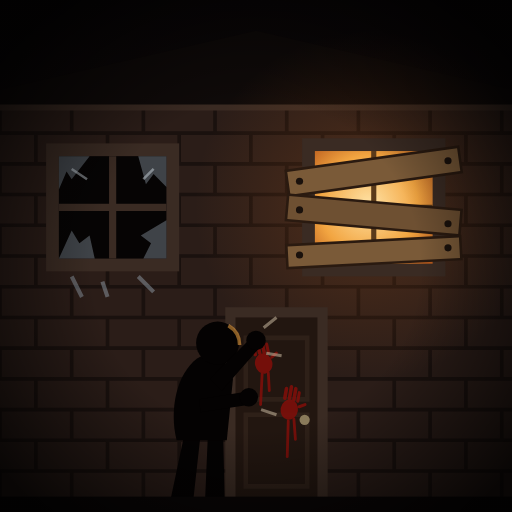
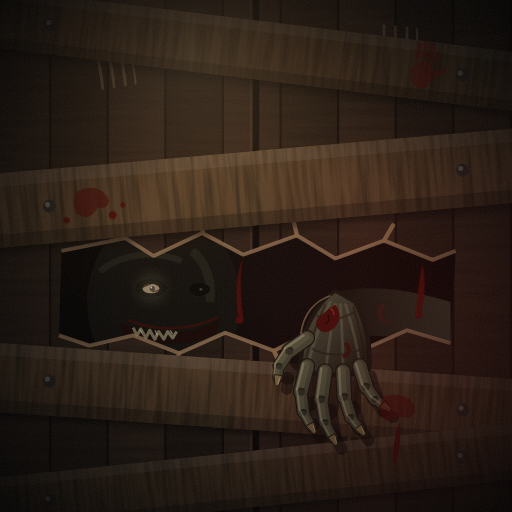
Kvartal: horror-film emblem - a hand forcing through boarded doors
Close-up of weathered boarded doors with wood grain, rusty nails, claw
marks and blood; through a splintered gap a face in shadow (one clouded
eye, bared teeth) and a rotting, tendoned hand clawing over a board.
Warm lamp light, red side light, vignette and film grain. Larger in the
intro and the menu; icons re-rendered.

Claude-Session: https://claude.ai/code/session_01CJeFQTEg4JxW5kAec31Xqp

diff --git a/mobile-games/kvartal/index.html b/mobile-games/kvartal/index.html
@@ -7400,7 +7400,7 @@ function titleCss() {
   color: #e9e1d4; text-shadow: 0 0 1px #000, 2px 2px 0 rgba(120,14,10,.7), 0 8px 40px rgba(0,0,0,.9); animation: tflick 7s infinite; }
 @keyframes tflick { 0%, 91%, 93.5%, 96%, 100% { opacity: 1 } 92% { opacity: .55 } 95% { opacity: .78 } }
 .tbrand { display: flex; align-items: center; gap: clamp(10px, 2vw, 18px); }
-.temb svg { width: clamp(54px, 9vw, 96px); height: auto; display: block; filter: drop-shadow(0 0 18px rgba(242,165,65,.15)); }
+.temb svg { width: clamp(72px, 12vw, 140px); height: auto; display: block; filter: drop-shadow(0 0 18px rgba(242,165,65,.15)); }
 .tline { font: italic 400 14px Georgia, serif; color: #a39a8c; margin-bottom: 8px; }
 .tmenu { display: flex; flex-direction: column; gap: 2px; border-left: 2px solid rgba(208,69,58,.35); }
 .tm { position: relative; display: flex; align-items: baseline; gap: 12px; padding: 8px 14px; background: none; border-radius: 0 10px 10px 0; text-align: left;
@@ -7436,7 +7436,7 @@ function titleCss() {
   .tbox .talert { grid-column: 1; grid-row: 1; align-self: end; }
   .tbox .tbrand { grid-column: 1; grid-row: 2; }
   .tbox .ttitle { font-size: clamp(22px, min(4.5vw, 12vh), 52px); }
-  .temb svg { width: clamp(42px, 15vh, 80px); }
+  .temb svg { width: clamp(64px, 27vh, 124px); }
   .tbrand { min-width: 0; }
   .tbox .tline { grid-column: 1; grid-row: 3; align-self: start; margin: 0; font-size: 13px; }
   .tmenu { grid-column: 2; grid-row: 1 / 4; align-self: center; }
@@ -8137,56 +8137,106 @@ const recheckSize = () => { if (window.innerWidth !== lastIW || window.innerHeig
 window.addEventListener("orientationchange", () => { setTimeout(recheckSize, 120); setTimeout(recheckSize, 500); });
 setInterval(recheckSize, 250);
 game.classList.toggle("lefty", !!settings.lefty);
-// ---------- the emblem: a house at night - a boarded window still lit, a smashed one, and one of them at the door
+// ---------- the emblem: boarded doors, and one of them forcing its way through the gap
 function emblemSVG(id = "em", full = false) {
-  const bricks = [];
-  for (let r = 0; r < 14; r++) { const y = 20 + r * 6; bricks.push(`M0 ${y}h100`); for (let x = (r % 2) * 7; x < 100; x += 14) bricks.push(`M${x} ${y}v6`); }
-  return `<svg viewBox="0 0 100 100" xmlns="http://www.w3.org/2000/svg" aria-hidden="true">
+  const I = s => id + s;
+  // vertical door planks
+  const planks = [];
+  for (let k = 0; k < 9; k++) {
+    const x = k * 45 - 5, c = ["#2a1d15", "#241a12", "#2e2017", "#211710", "#2b1e16", "#261b13", "#302118", "#231912", "#2c1f16"][k];
+    planks.push(`<rect x="${x}" y="-5" width="44" height="410" fill="${c}"/><rect x="${x}" y="-5" width="44" height="410" fill="#000" opacity=".22" filter="url(#${I("grain")})"/><path d="M${x + 44.5} -5V405" stroke="#0e0806" stroke-width="2.4"/>`);
+  }
+  // a nailed board across the doors
+  const board = (y, h, rot, tone) => `<g transform="rotate(${rot} 200 ${y + h / 2})">
+    <rect x="-20" y="${y + 4}" width="440" height="${h}" fill="#000" opacity=".55" filter="url(#${I("soft")})"/>
+    <rect x="-20" y="${y}" width="440" height="${h}" fill="${tone}"/>
+    <rect x="-20" y="${y}" width="440" height="${h}" fill="#2a1a0e" opacity=".5" filter="url(#${I("grainH")})"/>
+    <rect x="-20" y="${y}" width="440" height="${h * .18}" fill="#fff" opacity=".07"/><rect x="-20" y="${y + h * .82}" width="440" height="${h * .18}" fill="#000" opacity=".28"/>
+    ${[38, 362].map(nx => `<g><path d="M${nx + 2} ${y + h / 2 + 3}v${h * .6}" stroke="#6a2a10" stroke-width="3" opacity=".45" filter="url(#${I("soft")})"/><circle cx="${nx}" cy="${y + h / 2}" r="5" fill="#2a2522"/><circle cx="${nx - 1.4}" cy="${y + h / 2 - 1.4}" r="2" fill="#8a847c" opacity=".7"/></g>`).join("")}
+  </g>`;
+  // claw marks scraped into the wood
+  const claws = (x, y, r) => `<g transform="translate(${x} ${y}) rotate(${r})" stroke="#b89a78" stroke-linecap="round" opacity=".38">${[0, 9, 18, 26].map(o => `<path d="M${o} 0c2 18 4 34 3 52" stroke-width="${o === 26 ? 1.6 : 2.2}" fill="none"/>`).join("")}</g>`;
+  return `<svg viewBox="0 0 400 400" xmlns="http://www.w3.org/2000/svg" aria-hidden="true">
 <defs>
-<linearGradient id="${id}s" x1="0" y1="0" x2="0" y2="1"><stop offset="0" stop-color="#0a0607"/><stop offset="1" stop-color="#1c1210"/></linearGradient>
-<radialGradient id="${id}l" cx="72" cy="40" r="34" gradientUnits="userSpaceOnUse"><stop offset="0" stop-color="#f2a541" stop-opacity=".42"/><stop offset=".4" stop-color="#d06a24" stop-opacity=".14"/><stop offset="1" stop-color="#d06a24" stop-opacity="0"/></radialGradient>
-<radialGradient id="${id}w" cx="72" cy="40" r="16" gradientUnits="userSpaceOnUse"><stop offset="0" stop-color="#ffe3a6"/><stop offset=".6" stop-color="#f2a541"/><stop offset="1" stop-color="#b85a1c"/></radialGradient>
-<radialGradient id="${id}v" cx="50" cy="52" r="64" gradientUnits="userSpaceOnUse"><stop offset=".5" stop-color="#000" stop-opacity="0"/><stop offset="1" stop-color="#000" stop-opacity=".8"/></radialGradient>
-<clipPath id="${id}c"><rect width="100" height="100" rx="${full ? 0 : 18}"/></clipPath>
+<filter id="${I("grain")}" x="0" y="0" width="100%" height="100%"><feTurbulence type="fractalNoise" baseFrequency=".012 .22" numOctaves="3" seed="4"/><feColorMatrix values="0 0 0 0 0  0 0 0 0 0  0 0 0 0 0  0 0 0 1.6 -.55"/><feComposite in2="SourceGraphic" operator="in"/></filter>
+<filter id="${I("grainH")}" x="0" y="0" width="100%" height="100%"><feTurbulence type="fractalNoise" baseFrequency=".26 .016" numOctaves="3" seed="9"/><feColorMatrix values="0 0 0 0 0  0 0 0 0 0  0 0 0 0 0  0 0 0 1.7 -.6"/><feComposite in2="SourceGraphic" operator="in"/></filter>
+<filter id="${I("film")}" x="0" y="0" width="100%" height="100%"><feTurbulence type="fractalNoise" baseFrequency="1.1" numOctaves="2" seed="2"/><feColorMatrix values="0 0 0 0 .5  0 0 0 0 .5  0 0 0 0 .5  0 0 0 .55 0"/></filter>
+<filter id="${I("soft")}"><feGaussianBlur stdDeviation="3"/></filter>
+<filter id="${I("glow")}" x="-50%" y="-50%" width="200%" height="200%"><feGaussianBlur stdDeviation="5"/></filter>
+<radialGradient id="${I("lamp")}" cx="150" cy="40" r="330" gradientUnits="userSpaceOnUse"><stop offset="0" stop-color="#ffcf8a" stop-opacity=".26"/><stop offset=".45" stop-color="#c8742e" stop-opacity=".07"/><stop offset="1" stop-color="#000" stop-opacity="0"/></radialGradient>
+<radialGradient id="${I("red")}" cx="420" cy="300" r="260" gradientUnits="userSpaceOnUse"><stop offset="0" stop-color="#e0251a" stop-opacity=".2"/><stop offset="1" stop-color="#e0251a" stop-opacity="0"/></radialGradient>
+<radialGradient id="${I("vig")}" cx="200" cy="200" r="290" gradientUnits="userSpaceOnUse"><stop offset=".3" stop-color="#000" stop-opacity=".1"/><stop offset="1" stop-color="#000" stop-opacity=".96"/></radialGradient>
+<radialGradient id="${I("hole")}" cx="205" cy="232" r="110" gradientUnits="userSpaceOnUse"><stop offset="0" stop-color="#0a0505"/><stop offset="1" stop-color="#020101"/></radialGradient>
+<linearGradient id="${I("skin")}" x1="0" y1="0" x2="1" y2="1"><stop offset="0" stop-color="#4a4d3a"/><stop offset=".5" stop-color="#2e3125"/><stop offset="1" stop-color="#121309"/></linearGradient>
+<linearGradient id="${I("arm")}" x1="0" y1="0" x2="1" y2="0"><stop offset="0" stop-color="#050504"/><stop offset=".6" stop-color="#1e2018"/><stop offset="1" stop-color="#33362a"/></linearGradient>
+<radialGradient id="${I("eye")}" cx="0" cy="0" r="1"><stop offset="0" stop-color="#f4f1dc"/><stop offset=".7" stop-color="#c9c3a0"/><stop offset="1" stop-color="#8a7d58"/></radialGradient>
+<clipPath id="${I("c")}"><rect width="400" height="400" rx="${full ? 0 : 72}"/></clipPath>
+<clipPath id="${I("gap")}"><path d="M48 196 L98 186 L120 200 L158 182 L190 199 L232 184 L262 202 L300 188 L338 203 L356 196 L352 268 L318 258 L286 272 L246 258 L214 274 L176 260 L140 276 L104 262 L70 270 L46 262Z"/></clipPath>
 </defs>
-<g clip-path="url(#${id}c)">
-<rect width="100" height="100" fill="url(#${id}s)"/>
-<rect y="18" width="100" height="82" fill="#2b1d18"/>
-<path d="${bricks.join("")}" stroke="#1a110e" stroke-width=".7"/>
-<path d="M-2 18 L50 6 L102 18 V21 H-2z" fill="#0f0a09"/><path d="M-2 21h104" stroke="#3a2a22" stroke-width="1.2"/>
-<rect width="100" height="100" fill="url(#${id}l)"/>
-<!-- smashed window, left -->
-<rect x="9" y="28" width="26" height="25" fill="#3a2b23"/><rect x="11.5" y="30.5" width="21" height="20" fill="#060404"/>
-<path d="M11.5 30.5h6l-3.5 4.5-1 -1.5-1.5 3.5zM32.5 30.5v6l-2.5-2.5-1.5 2-1.5-5.5zM11.5 50.5l2.5-5.5 1.5 2.5 2-1.5 1 4.5zM32.5 50.5h-4.5l1.5-3-2-1.5 5-3z" fill="#8f9ba6" opacity=".42"/>
-<path d="M14 33l3 2M30 33l-2 2" stroke="#c9d2da" stroke-width=".5" opacity=".5"/>
-<path d="M22 30.5v20M11.5 40.5h21" stroke="#3a2b23" stroke-width="1.4"/>
-<path d="M14 54l2 4M20 55l1 3M27 54l3 3" stroke="#8f9ba6" stroke-width=".8" opacity=".5"/>
-<!-- boarded window, right, light through the gaps -->
-<rect x="59" y="27" width="28" height="27" fill="#3a2b23"/><rect x="61.5" y="29.5" width="23" height="22" fill="url(#${id}w)"/>
-<path d="M73 29.5v22M61.5 40.5h23" stroke="#5a3a1a" stroke-width="1"/>
-<g stroke="#2a1a10" stroke-width=".5">
-<rect x="56" y="31" width="34" height="5" fill="#7a5a38" transform="rotate(-8 73 33.5)"/>
-<rect x="56" y="39.5" width="34" height="5" fill="#6e5032" transform="rotate(5 73 42)"/>
-<rect x="56" y="47" width="34" height="4.5" fill="#7a5a38" transform="rotate(-3 73 49)"/>
+<g clip-path="url(#${I("c")})">
+<rect width="400" height="400" fill="#0b0705"/>
+${planks.join("")}
+<path d="M200 -5V405" stroke="#050302" stroke-width="5"/><path d="M196 -5V405" stroke="#5a4030" stroke-width="1" opacity=".5"/>
+${claws(70, 18, -8)}${claws(268, 300, 10)}${claws(300, 20, 6)}
+<!-- the broken gap -->
+<path d="M48 196 L98 186 L120 200 L158 182 L190 199 L232 184 L262 202 L300 188 L338 203 L356 196 L352 268 L318 258 L286 272 L246 258 L214 274 L176 260 L140 276 L104 262 L70 270 L46 262Z" fill="url(#${I("hole")})"/>
+<g clip-path="url(#${I("gap")})">
+  <!-- the face behind the boards: almost all shadow, one clouded eye, teeth catching the light -->
+  <ellipse cx="128" cy="236" rx="60" ry="70" fill="#0d0c09"/>
+  <path d="M78 212c14-12 40-18 64-8" stroke="#2a2a1f" stroke-width="5" fill="none" opacity=".55"/>
+  <path d="M150 196c10 8 16 22 14 40" stroke="#25261c" stroke-width="7" fill="none" opacity=".6"/>
+  <ellipse cx="118" cy="225" rx="12" ry="7" fill="#030302"/>
+  <circle cx="118" cy="225" r="11" fill="#d8d2a0" opacity=".16" filter="url(#${I("glow")})"/>
+  <ellipse cx="118" cy="225.5" rx="6.6" ry="3.6" fill="#b9b28a"/>
+  <ellipse cx="118" cy="225.5" rx="6.6" ry="3.6" fill="#5a2018" opacity=".25"/>
+  <circle cx="119" cy="225.6" r="2.1" fill="#3a3a30" opacity=".85"/><circle cx="118.2" cy="224.6" r=".7" fill="#fff" opacity=".7"/>
+  <path d="M111 225c2-2 4-3 7-3M125 226c-2 1-4 2-6 2" stroke="#2a0a06" stroke-width=".7" opacity=".7"/>
+  <ellipse cx="156" cy="226" rx="8" ry="5" fill="#030302"/><circle cx="157" cy="226" r="1.2" fill="#8a8466" opacity=".4"/>
+  <path d="M94 252c16 8 40 11 64 4 6-2 11-5 14-8l-3 12c-16 10-46 12-72 1z" fill="#150403"/>
+  <path d="M104 256l3 6 3-5 4 7 3-6 4 7 3-6 4 6 3-6 4 5 3-5" stroke="#8a8264" stroke-width="2.4" fill="none" stroke-linejoin="round" opacity=".85"/>
+  <path d="M109 257l2 3M121 258l2 4M133 258l2 3" stroke="#e8e0c0" stroke-width="1" opacity=".55"/>
+  <path d="M100 250c20 9 48 9 70-2" stroke="#3a0805" stroke-width="2" fill="none" opacity=".8"/>
+  <path d="M98 262c6 8 6 16 2 24" stroke="#4a0906" stroke-width="2.4" fill="none" opacity=".8"/>
+  <!-- the arm, out of the dark -->
+  <path d="M352 236 C320 226 290 222 262 228 L256 262 C284 262 318 262 352 268Z" fill="url(#${I("arm")})"/>
+  <path d="M300 238c-6 6-4 12 4 14" stroke="#3a1410" stroke-width="3" fill="none" opacity=".8"/>
 </g>
-<g fill="#1a110c"><circle cx="58.5" cy="35.4" r=".7"/><circle cx="87.5" cy="31.4" r=".7"/><circle cx="58.5" cy="41" r=".7"/><circle cx="87.5" cy="43.7" r=".7"/><circle cx="58.5" cy="49.8" r=".7"/><circle cx="87.5" cy="48.4" r=".7"/></g>
-<!-- the door and the one pounding on it -->
-<rect x="44" y="60" width="20" height="40" fill="#3a2b23"/><rect x="46" y="62" width="16" height="38" fill="#221610"/>
-<path d="M48 66h12v12H48zM48 81h12v14H48z" fill="none" stroke="#2e2018" stroke-width=".9"/><circle cx="59.5" cy="82" r="1" fill="#8a7a5a"/>
-<g fill="#7d0f0a" opacity=".9"><g transform="translate(51.5 71) rotate(-12)"><ellipse cx="0" cy="0" rx="1.7" ry="2" /><rect x="-1.6" y="-4.3" width=".7" height="2.6" rx=".35"/><rect x="-.7" y="-4.8" width=".7" height="3" rx=".35"/><rect x=".2" y="-4.6" width=".7" height="2.9" rx=".35"/><rect x="1.05" y="-3.9" width=".6" height="2.3" rx=".3"/><rect x="1.4" y="-1" width="1.8" height=".6" rx=".3" transform="rotate(-30 1.4 -1)"/></g><g transform="translate(56.5 80) rotate(10)"><ellipse cx="0" cy="0" rx="1.7" ry="2" /><rect x="-1.6" y="-4.3" width=".7" height="2.6" rx=".35"/><rect x="-.7" y="-4.8" width=".7" height="3" rx=".35"/><rect x=".2" y="-4.6" width=".7" height="2.9" rx=".35"/><rect x="1.05" y="-3.9" width=".6" height="2.3" rx=".3"/><rect x="1.4" y="-1" width="1.8" height=".6" rx=".3" transform="rotate(-30 1.4 -1)"/></g><path d="M51.2 73l-.3 6M52.4 72.8l.2 3.5M56.3 82.2l-.2 7M57.4 81.8l.3 4" stroke="#7d0f0a" stroke-width=".55" stroke-linecap="round"/></g>
-<g fill="#040202">
-<path d="M33 99l3.2-15 3 .6-1.6 14.4zM40 99l.6-14 3 .3.3 13.7z"/>
-<path d="M34.5 86c-1.5-6 0-13 4-16 3-2 6 0 7 4l-1.2 12z"/>
-<circle cx="42.5" cy="67" r="4.2"/>
-<path d="M41 74l8-8 1.8 1.8-7.5 8.5zM39 78l9-1.5.4 2.6-9.3 1.4z"/>
-<circle cx="50" cy="66.5" r="1.9"/><circle cx="48.6" cy="77.6" r="1.8"/>
+<!-- splintered rim of the gap -->
+<path d="M48 196 L98 186 L120 200 L158 182 L190 199 L232 184 L262 202 L300 188 L338 203 L356 196" stroke="#a5825e" stroke-width="3" fill="none" stroke-linejoin="bevel" opacity=".75"/>
+<path d="M46 262 L70 270 L104 262 L140 276 L176 260 L214 274 L246 258 L286 272 L318 258 L352 268" stroke="#a5825e" stroke-width="3" fill="none" stroke-linejoin="bevel" opacity=".75"/>
+<path d="M98 186l-6-14M158 182l4-15M232 184l-3-13M300 188l7-12M140 276l-5 14M214 274l6 13M286 272l-4 15" stroke="#8a6a48" stroke-width="3.4" stroke-linecap="round"/>
+${board(118, 58, -5, "#584029")}
+${board(282, 54, 4, "#523b26")}
+${board(16, 46, 7, "#4a3522")}
+${board(352, 44, -6, "#463220")}
+<!-- the hand: a rotting wrist out of the gap, bony fingers clawing over the lower board -->
+<g><path d="M247 295L242 315" stroke="#000" stroke-width="13" stroke-linecap="round" opacity="0.5"/><path d="M242 315L244 331" stroke="#000" stroke-width="11" stroke-linecap="round" opacity="0.5"/><path d="M244 331L250 342" stroke="#000" stroke-width="9" stroke-linecap="round" opacity="0.5"/><path d="M261 299L258 321" stroke="#000" stroke-width="13" stroke-linecap="round" opacity="0.5"/><path d="M258 321L261 339" stroke="#000" stroke-width="11" stroke-linecap="round" opacity="0.5"/><path d="M261 339L267 351" stroke="#000" stroke-width="9" stroke-linecap="round" opacity="0.5"/><path d="M275 299L276 319" stroke="#000" stroke-width="13" stroke-linecap="round" opacity="0.5"/><path d="M276 319L281 335" stroke="#000" stroke-width="11" stroke-linecap="round" opacity="0.5"/><path d="M281 335L288 344" stroke="#000" stroke-width="9" stroke-linecap="round" opacity="0.5"/><path d="M288 295L293 311" stroke="#000" stroke-width="13" stroke-linecap="round" opacity="0.5"/><path d="M293 311L300 321" stroke="#000" stroke-width="11" stroke-linecap="round" opacity="0.5"/><path d="M300 321L307 326" stroke="#000" stroke-width="9" stroke-linecap="round" opacity="0.5"/><path d="M247 273L233 283" stroke="#000" stroke-width="13" stroke-linecap="round" opacity="0.5"/><path d="M233 283L225 295" stroke="#000" stroke-width="11" stroke-linecap="round" opacity="0.5"/><path d="M225 295L224 304" stroke="#000" stroke-width="9" stroke-linecap="round" opacity="0.5"/></g>
+<path d="M262 226 C252 232 241 246 236 262 L232 290 C246 296 272 298 290 289 C292 272 288 250 278 234Z" fill="#0f100b"/>
+<path d="M262 229 C253 235 244 248 239 263 L236 287 C249 292 270 293 286 286 C288 270 284 251 276 237Z" fill="url(#${I("skin")})"/>
+<g stroke="#5f624b" stroke-width="2.2" stroke-linecap="round" opacity=".55" fill="none"><path d="M258 236 C250 254 244 270 241 284"/><path d="M262 238 C259 256 256 272 255 287"/><path d="M266 238 C267 256 268 272 268 287"/><path d="M270 238 C275 254 279 270 281 283"/></g>
+<g stroke="#121309" stroke-width="1.4" stroke-linecap="round" opacity=".6" fill="none"><path d="M254 238 C246 256 241 270 238 284"/><path d="M276 240 C281 256 284 270 285 282"/></g>
+<g><path d="M240 286L235 306" stroke="#0f100b" stroke-width="12.5" stroke-linecap="round" opacity="1"/><path d="M235 306L237 322" stroke="#0f100b" stroke-width="10.5" stroke-linecap="round" opacity="1"/><path d="M237 322L243 333" stroke="#0f100b" stroke-width="8.6" stroke-linecap="round" opacity="1"/><path d="M254 290L251 312" stroke="#0f100b" stroke-width="12.5" stroke-linecap="round" opacity="1"/><path d="M251 312L254 330" stroke="#0f100b" stroke-width="10.5" stroke-linecap="round" opacity="1"/><path d="M254 330L260 342" stroke="#0f100b" stroke-width="8.6" stroke-linecap="round" opacity="1"/><path d="M268 290L269 310" stroke="#0f100b" stroke-width="12.5" stroke-linecap="round" opacity="1"/><path d="M269 310L274 326" stroke="#0f100b" stroke-width="10.5" stroke-linecap="round" opacity="1"/><path d="M274 326L281 335" stroke="#0f100b" stroke-width="8.6" stroke-linecap="round" opacity="1"/><path d="M281 286L286 302" stroke="#0f100b" stroke-width="12.5" stroke-linecap="round" opacity="1"/><path d="M286 302L293 312" stroke="#0f100b" stroke-width="10.5" stroke-linecap="round" opacity="1"/><path d="M293 312L300 317" stroke="#0f100b" stroke-width="8.6" stroke-linecap="round" opacity="1"/><path d="M240 264L226 274" stroke="#0f100b" stroke-width="12.5" stroke-linecap="round" opacity="1"/><path d="M226 274L218 286" stroke="#0f100b" stroke-width="10.5" stroke-linecap="round" opacity="1"/><path d="M218 286L217 295" stroke="#0f100b" stroke-width="8.6" stroke-linecap="round" opacity="1"/></g><g><path d="M240 286L235 306" stroke="#3f4232" stroke-width="10.5" stroke-linecap="round" opacity="1"/><path d="M235 306L237 322" stroke="#3f4232" stroke-width="8.8" stroke-linecap="round" opacity="1"/><path d="M237 322L243 333" stroke="#3f4232" stroke-width="7" stroke-linecap="round" opacity="1"/><path d="M254 290L251 312" stroke="#3f4232" stroke-width="10.5" stroke-linecap="round" opacity="1"/><path d="M251 312L254 330" stroke="#3f4232" stroke-width="8.8" stroke-linecap="round" opacity="1"/><path d="M254 330L260 342" stroke="#3f4232" stroke-width="7" stroke-linecap="round" opacity="1"/><path d="M268 290L269 310" stroke="#3f4232" stroke-width="10.5" stroke-linecap="round" opacity="1"/><path d="M269 310L274 326" stroke="#3f4232" stroke-width="8.8" stroke-linecap="round" opacity="1"/><path d="M274 326L281 335" stroke="#3f4232" stroke-width="7" stroke-linecap="round" opacity="1"/><path d="M281 286L286 302" stroke="#3f4232" stroke-width="10.5" stroke-linecap="round" opacity="1"/><path d="M286 302L293 312" stroke="#3f4232" stroke-width="8.8" stroke-linecap="round" opacity="1"/><path d="M293 312L300 317" stroke="#3f4232" stroke-width="7" stroke-linecap="round" opacity="1"/><path d="M240 264L226 274" stroke="#3f4232" stroke-width="10.5" stroke-linecap="round" opacity="1"/><path d="M226 274L218 286" stroke="#3f4232" stroke-width="8.8" stroke-linecap="round" opacity="1"/><path d="M218 286L217 295" stroke="#3f4232" stroke-width="7" stroke-linecap="round" opacity="1"/></g><g><path d="M239 285L234 305" stroke="#55583f" stroke-width="6" stroke-linecap="round" opacity="0.8"/><path d="M234 305L236 321" stroke="#55583f" stroke-width="5" stroke-linecap="round" opacity="0.8"/><path d="M236 321L242 332" stroke="#55583f" stroke-width="4" stroke-linecap="round" opacity="0.8"/><path d="M253 289L250 311" stroke="#55583f" stroke-width="6" stroke-linecap="round" opacity="0.8"/><path d="M250 311L253 329" stroke="#55583f" stroke-width="5" stroke-linecap="round" opacity="0.8"/><path d="M253 329L259 341" stroke="#55583f" stroke-width="4" stroke-linecap="round" opacity="0.8"/><path d="M267 289L268 309" stroke="#55583f" stroke-width="6" stroke-linecap="round" opacity="0.8"/><path d="M268 309L273 325" stroke="#55583f" stroke-width="5" stroke-linecap="round" opacity="0.8"/><path d="M273 325L280 334" stroke="#55583f" stroke-width="4" stroke-linecap="round" opacity="0.8"/><path d="M280 285L285 301" stroke="#55583f" stroke-width="6" stroke-linecap="round" opacity="0.8"/><path d="M285 301L292 311" stroke="#55583f" stroke-width="5" stroke-linecap="round" opacity="0.8"/><path d="M292 311L299 316" stroke="#55583f" stroke-width="4" stroke-linecap="round" opacity="0.8"/><path d="M239 263L225 273" stroke="#55583f" stroke-width="6" stroke-linecap="round" opacity="0.8"/><path d="M225 273L217 285" stroke="#55583f" stroke-width="5" stroke-linecap="round" opacity="0.8"/><path d="M217 285L216 294" stroke="#55583f" stroke-width="4" stroke-linecap="round" opacity="0.8"/></g><circle cx="235" cy="306" r="3.2" fill="#2a2c20"/><circle cx="237" cy="322" r="2.6" fill="#2a2c20"/><path d="M232 305q3 -2 6 0M234.5 321q2.5 -1.6 5 0" stroke="#1a1b13" stroke-width="1" fill="none"/><circle cx="251" cy="312" r="3.2" fill="#2a2c20"/><circle cx="254" cy="330" r="2.6" fill="#2a2c20"/><path d="M248 311q3 -2 6 0M251.5 329q2.5 -1.6 5 0" stroke="#1a1b13" stroke-width="1" fill="none"/><circle cx="269" cy="310" r="3.2" fill="#2a2c20"/><circle cx="274" cy="326" r="2.6" fill="#2a2c20"/><path d="M266 309q3 -2 6 0M271.5 325q2.5 -1.6 5 0" stroke="#1a1b13" stroke-width="1" fill="none"/><circle cx="286" cy="302" r="3.2" fill="#2a2c20"/><circle cx="293" cy="312" r="2.6" fill="#2a2c20"/><path d="M283 301q3 -2 6 0M290.5 311q2.5 -1.6 5 0" stroke="#1a1b13" stroke-width="1" fill="none"/><circle cx="226" cy="274" r="3.2" fill="#2a2c20"/><circle cx="218" cy="286" r="2.6" fill="#2a2c20"/><path d="M223 273q3 -2 6 0M215.5 285q2.5 -1.6 5 0" stroke="#1a1b13" stroke-width="1" fill="none"/><g><path d="M237 284L232 304" stroke="#a39f7c" stroke-width="2" stroke-linecap="round" opacity="0.55"/><path d="M232 304L234 320" stroke="#a39f7c" stroke-width="1.6" stroke-linecap="round" opacity="0.55"/><path d="M234 320L240 331" stroke="#a39f7c" stroke-width="1.3" stroke-linecap="round" opacity="0.55"/><path d="M251 288L248 310" stroke="#a39f7c" stroke-width="2" stroke-linecap="round" opacity="0.55"/><path d="M248 310L251 328" stroke="#a39f7c" stroke-width="1.6" stroke-linecap="round" opacity="0.55"/><path d="M251 328L257 340" stroke="#a39f7c" stroke-width="1.3" stroke-linecap="round" opacity="0.55"/><path d="M265 288L266 308" stroke="#a39f7c" stroke-width="2" stroke-linecap="round" opacity="0.55"/><path d="M266 308L271 324" stroke="#a39f7c" stroke-width="1.6" stroke-linecap="round" opacity="0.55"/><path d="M271 324L278 333" stroke="#a39f7c" stroke-width="1.3" stroke-linecap="round" opacity="0.55"/><path d="M278 284L283 300" stroke="#a39f7c" stroke-width="2" stroke-linecap="round" opacity="0.55"/><path d="M283 300L290 310" stroke="#a39f7c" stroke-width="1.6" stroke-linecap="round" opacity="0.55"/><path d="M290 310L297 315" stroke="#a39f7c" stroke-width="1.3" stroke-linecap="round" opacity="0.55"/><path d="M237 262L223 272" stroke="#a39f7c" stroke-width="2" stroke-linecap="round" opacity="0.55"/><path d="M223 272L215 284" stroke="#a39f7c" stroke-width="1.6" stroke-linecap="round" opacity="0.55"/><path d="M215 284L214 293" stroke="#a39f7c" stroke-width="1.3" stroke-linecap="round" opacity="0.55"/></g><g transform="translate(243 333) rotate(61.38954033403479)"><path d="M-2 -3.2 L5.5 -1.6 L7 0 L5.5 1.6 L-2 3.2Z" fill="#7a6a42" stroke="#1a1208" stroke-width=".7"/><path d="M0 -1.8L5 -.8" stroke="#c9b88a" stroke-width=".8" opacity=".6"/></g><g transform="translate(260 342) rotate(63.43494882292201)"><path d="M-2 -3.2 L5.5 -1.6 L7 0 L5.5 1.6 L-2 3.2Z" fill="#7a6a42" stroke="#1a1208" stroke-width=".7"/><path d="M0 -1.8L5 -.8" stroke="#c9b88a" stroke-width=".8" opacity=".6"/></g><g transform="translate(281 335) rotate(52.1250163489018)"><path d="M-2 -3.2 L5.5 -1.6 L7 0 L5.5 1.6 L-2 3.2Z" fill="#7a6a42" stroke="#1a1208" stroke-width=".7"/><path d="M0 -1.8L5 -.8" stroke="#c9b88a" stroke-width=".8" opacity=".6"/></g><g transform="translate(300 317) rotate(35.53767779197438)"><path d="M-2 -3.2 L5.5 -1.6 L7 0 L5.5 1.6 L-2 3.2Z" fill="#7a6a42" stroke="#1a1208" stroke-width=".7"/><path d="M0 -1.8L5 -.8" stroke="#c9b88a" stroke-width=".8" opacity=".6"/></g><g transform="translate(217 295) rotate(96.3401917459099)"><path d="M-2 -3.2 L5.5 -1.6 L7 0 L5.5 1.6 L-2 3.2Z" fill="#7a6a42" stroke="#1a1208" stroke-width=".7"/><path d="M0 -1.8L5 -.8" stroke="#c9b88a" stroke-width=".8" opacity=".6"/></g>
+<path d="M246 246c10 5 22 4 32-3M244 272c8 6 24 7 38 1" stroke="#1c1d15" stroke-width="2" fill="none" opacity=".7"/>
+<path d="M262 238c5 7 4 14-2 19-6 5-12 2-13-4 0-6 7-8 10-12z" fill="#3e0604"/><path d="M256 246c2 3 1 6-2 7" stroke="#1a0201" stroke-width="1.6" fill="none"/><path d="M258 241c2 1 3 3 3 5" stroke="#c84a3a" stroke-width=".8" fill="none" opacity=".6"/>
+<path d="M270 268c4 4 3 9-2 11" stroke="#3a0604" stroke-width="2.6" fill="none"/>
+<path d="M258 231c-12 4-21 14-23 30" stroke="#e8c48a" stroke-width="1.3" fill="none" opacity=".4"/>
+<!-- blood -->
+<g fill="#4e0705" opacity=".92">
+  <path d="M190 200c-3 16-2 32 0 48 1 4-4 4-4 0-2-18-2-32 4-48z"/><circle cx="187" cy="250" r="3"/>
+  <path d="M330 206c3 14 2 26-1 38 0 3-4 3-4 0 1-12 2-24 5-38z"/><circle cx="327" cy="246" r="2.8"/>
+  <path d="M60 150c8-6 20-4 24 4 3 6-2 10-8 8-3 8-12 10-16 4-4-5-2-12 0-16z" opacity=".75"/>
+  <circle cx="88" cy="168" r="3"/><circle cx="96" cy="160" r="2"/><circle cx="52" cy="172" r="2.4"/>
+  <path d="M300 310c10-4 22 0 24 8 2 7-6 10-12 7-5 6-14 4-15-3-1-5 0-9 3-12z" opacity=".7"/>
+  <path d="M312 330c1 12 0 22-2 30 0 3-3 3-3 0 0-10 1-20 5-30z"/>
 </g>
-<path d="M44.6 63.6c1.4.8 2.2 2.2 2.2 3.8" stroke="#f2a541" stroke-width=".7" fill="none" opacity=".55"/>
-<path d="M51.5 64l2.5-2M52 69l3 .5M51 80l3 1" stroke="#c9b9a0" stroke-width=".6" opacity=".55"/>
-<rect y="97" width="100" height="3" fill="#0a0606"/>
-<rect width="100" height="100" fill="url(#${id}v)"/>
+<g transform="translate(330 58) rotate(14)" fill="#6a0a06" opacity=".55"><ellipse cx="0" cy="0" rx="9" ry="11"/><rect x="-9" y="-24" width="4" height="13" rx="2"/><rect x="-4" y="-27" width="4" height="15" rx="2"/><rect x="1" y="-26" width="4" height="14" rx="2"/><rect x="6" y="-21" width="3.4" height="11" rx="1.7"/><rect x="7" y="-4" width="10" height="4" rx="2" transform="rotate(-30 7 -4)"/></g>
+<!-- light, shade, film -->
+<rect width="400" height="400" fill="url(#${I("lamp")})"/>
+<rect width="400" height="400" fill="url(#${I("red")})"/>
+<rect width="400" height="400" fill="url(#${I("vig")})"/>
+<rect width="400" height="400" filter="url(#${I("film")})" opacity=".14"/>
 </g>
-${full ? "" : `<rect x=".75" y=".75" width="98.5" height="98.5" rx="17.5" fill="none" stroke="rgba(208,69,58,.45)" stroke-width="1.5"/>`}
+${full ? "" : `<rect x="3" y="3" width="394" height="394" rx="70" fill="none" stroke="rgba(208,69,58,.5)" stroke-width="6"/>`}
 </svg>`;
 }
 
@@ -8248,9 +8298,10 @@ function playIntro() {
 #intro .ilines div:first-child { color: #e0453a; letter-spacing: .18em; text-transform: uppercase; font-size: .82em; }
 #intro .ilines span.cur { display: inline-block; width: .6em; height: 1em; background: #d9c9b4; vertical-align: -2px; animation: tblink .8s steps(2) infinite; }
 #intro .ilogo { position: absolute; display: grid; justify-items: center; gap: 6px; text-align: center; opacity: 0; transform: scale(1.06); transition: opacity 1s ease, transform 2.4s ease-out; }
-#intro .ilogo .ttitle { font-size: clamp(38px, 9vw, 84px); text-align: center; }
+#intro .ilogo .ttitle { font-size: clamp(30px, min(8vw, 14vh), 84px); text-align: center; }
+#intro .ilogo { margin-top: -28px; }
 #intro .ilogo .talert { justify-content: center; }
-#intro .iemb svg { width: clamp(56px, 12vh, 96px); height: auto; display: block; margin-bottom: 4px; filter: drop-shadow(0 0 22px rgba(242,165,65,.18)); }
+#intro .iemb svg { width: clamp(80px, 24vh, 180px); height: auto; display: block; margin-bottom: 4px; filter: drop-shadow(0 0 22px rgba(242,165,65,.18)); }
 #intro.logo .ilogo { opacity: 1; transform: scale(1); }
 #intro.logo .ilines, #intro.logo .istart { opacity: 0; }
 #intro.glitch .ibox { animation: iglitch .35s steps(3) 1; }

diff --git a/mobile-games/kvartal/sw.js b/mobile-games/kvartal/sw.js
@@ -1,5 +1,5 @@
 // offline cache: the game opens from the home screen without a connection; a new version is fetched in the background
-const CACHE = "kvartal-42ee095df0";
+const CACHE = "kvartal-8d4b2c1d7b";
 const FILES = ["./", "index.html", "manifest.webmanifest", "icon.png", "icon-192.png", "icon-512.png",
   "lib/three.min.js", "lib/CopyShader.js", "lib/LuminosityHighPassShader.js", "lib/EffectComposer.js", "lib/RenderPass.js", "lib/ShaderPass.js", "lib/UnrealBloomPass.js", "lib/BufferGeometryUtils.js"];
 self.addEventListener("install", e => { e.waitUntil(caches.open(CACHE).then(c => c.addAll(FILES)).then(() => self.skipWaiting())); });
